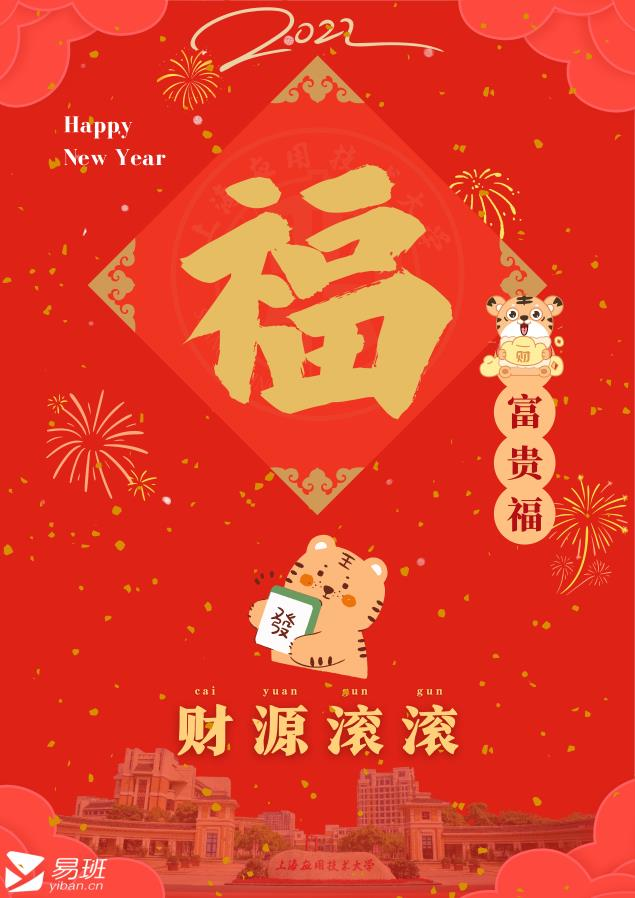
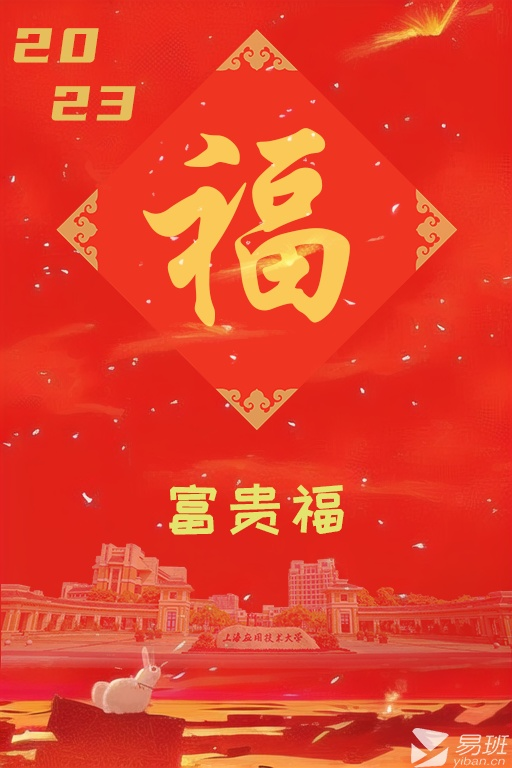
update: 替换福卡素材

diff --git a/other/福卡原图/png转jpg压缩脚本.py b/other/福卡原图/png转jpg压缩脚本.py
@@ -5,7 +5,7 @@ def convert(filename: str):
 
     h,w,_ = img.shape
     print(w,h)
-    img = cv2.resize(img,(int(w/10),int(h/10)))
+    img = cv2.resize(img,(int(w),int(h)))
 
     cv2.imwrite(filename.split('.')[0]+'.jpg',img)
 
